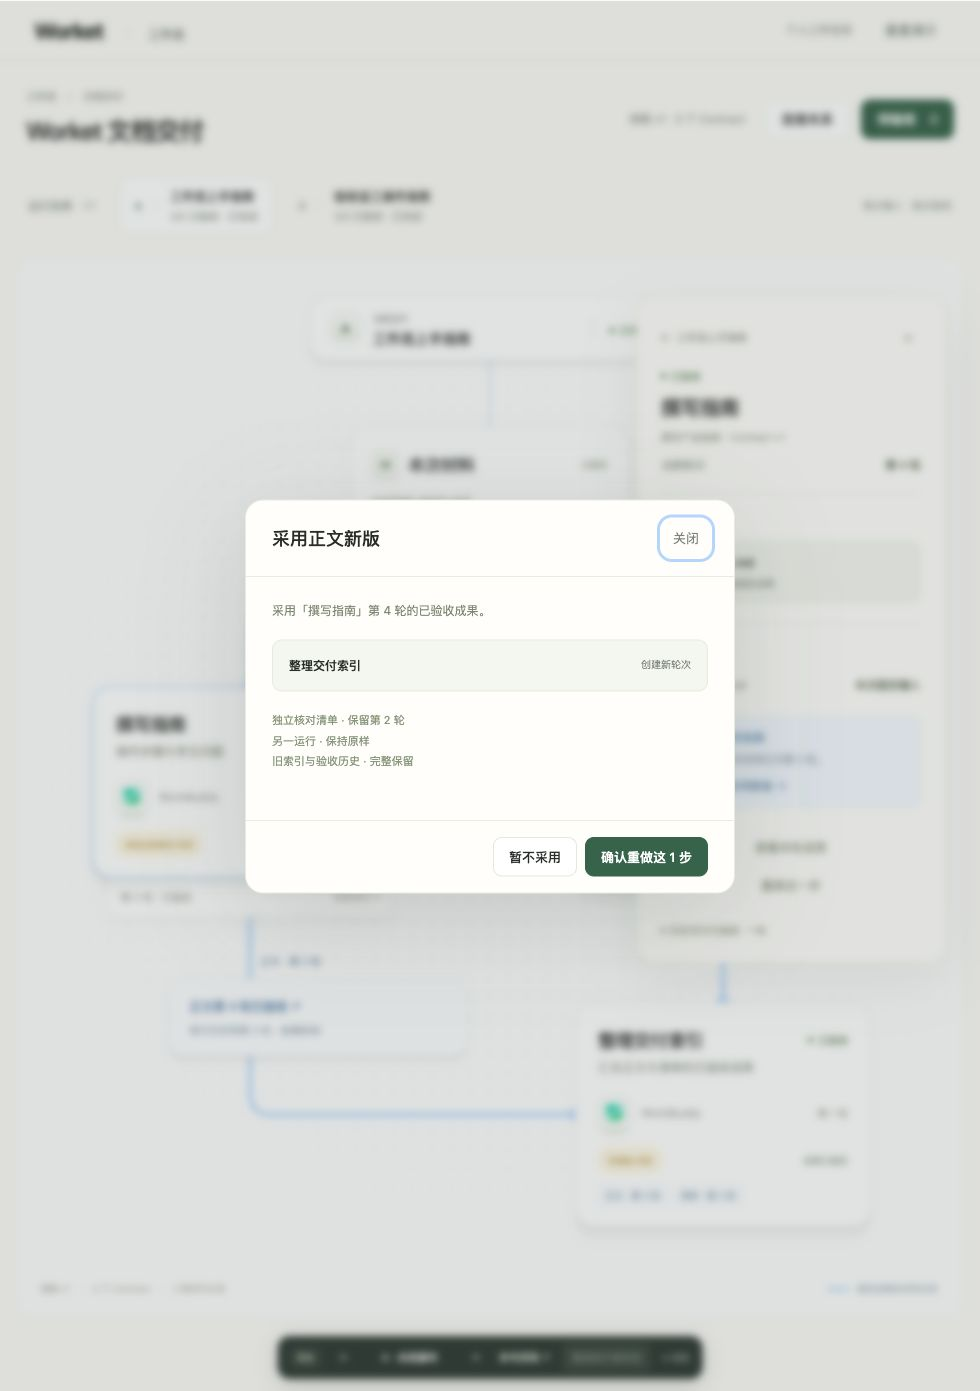
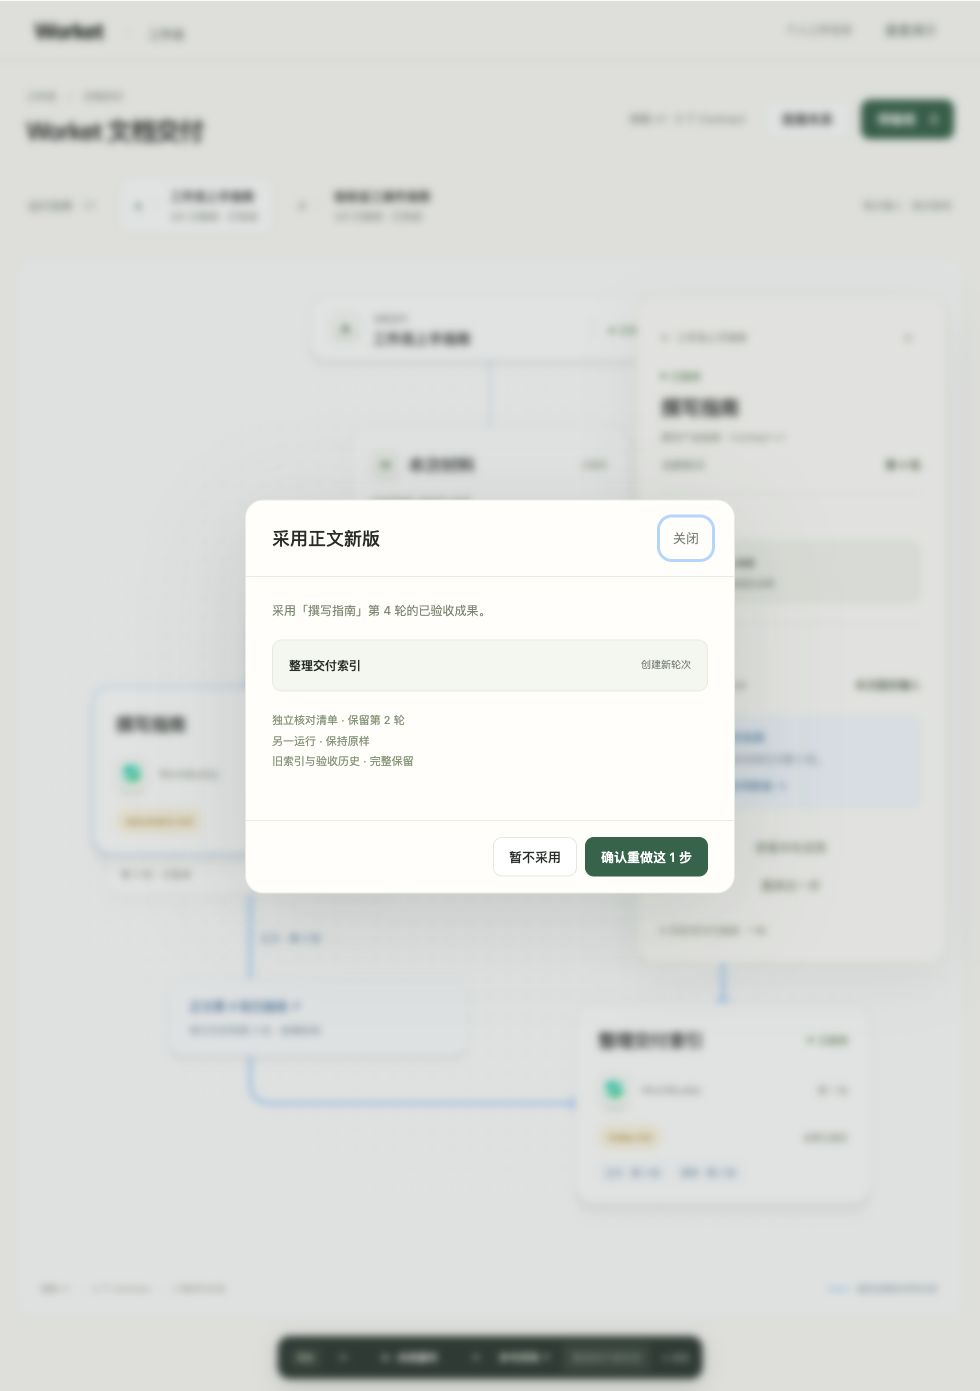
移除工作流节点标题下的解释文字

diff --git a/research/prototypes/workflow-project-flow/prototype.js b/research/prototypes/workflow-project-flow/prototype.js
@@ -20,7 +20,6 @@ const active=()=>runs[currentRun];
 const stale=r=>r.nodes.guide.phase==='ACCEPTED'&&r.nodes.delivery.adoptedGuide&&r.nodes.guide.generation>r.nodes.delivery.adoptedGuide;
 function nodeMarkup(key, n) {
  const r = active();
- const desc = {guide:'操作步骤与常见问题', checklist:'依据同一材料，独立核对', delivery:'汇合正文与清单的已验收成果'}[key];
  const adoption = key === 'delivery' ? (n.adoptedGuide
   ? `<span>正文 · 第 ${n.adoptedGuide} 轮</span><span>清单 · 第 ${n.adoptedChecklist} 轮</span>`
   : '<span>输入就绪 · 开展时固定</span>') : '';
@@ -28,7 +27,6 @@ function nodeMarkup(key, n) {
  return `<article class="flow-node ${r.selected === key ? 'selected' : ''}" id="node-${key}" data-kind="${key}">
   <div class="node-face"><button class="node-select" data-node="${key}" aria-pressed="${r.selected === key}" aria-label="${nodeNames[key]}，第 ${n.generation} 轮，${label[n.phase]}">
    <div class="node-heading"><h3>${nodeNames[key]}</h3>${status(n.phase)}</div>
-   <p class="node-description">${desc}</p>
    <div class="executor"><span class="app-tile"><img src="/workbuddy.png" alt=""></span><span>WorkBuddy</span><span class="round">第 ${n.generation} 轮</span></div>
    <div class="node-file"><span class="file-chip">${fileNames[key]}</span><span>${n.phase === 'READY' ? '待生成' : n.phase === 'ACCEPTED' ? '成果已固定' : n.phase === 'SUBMITTED' ? '等你验收' : '处理中'}</span></div>
    ${adoption ? `<div class="node-adoption">${adoption}</div>` : ''}

diff --git a/research/prototypes/workflow-project-flow/prototype.css b/research/prototypes/workflow-project-flow/prototype.css
@@ -92,7 +92,6 @@ h1 { font-size: 25px; font-weight: 550; letter-spacing: -.7px; margin-top: 8px; 
 .node-heading h3 { min-width: 0; }
 .node-heading .status { flex-shrink: 0; }
 .flow-node h3 { font-size: 18px; font-weight: 500; letter-spacing: -.5px; line-height: 1.5; }
-.node-description { color: #989e94; font-size: 12px; margin-top: 5px; }
 .executor { display: flex; align-items: center; gap: 10px; margin-top: 20px; color: #9a9f98; font-size: 11px; }
 .executor .app-tile { border: 3px solid #f0f2ed; border-radius: 9px; padding: 3px; background: #fff; width: 33px; height: 33px; box-shadow: 0 8px 5px -4px #9cae8e50; display: flex; align-items: center; }
 .executor img { display: block; width: 21px; height: 21px; border-radius: 5px; }
@@ -199,7 +198,6 @@ textarea { width: 100%; height: 82px; resize: vertical; border: 1px solid #dfe6d
 .variant-b .flow-node[data-kind="delivery"] { top: 661px; left: 50%; transform: translateX(-50%); }
 .variant-b .node-face { padding: 18px; }
 .variant-b .flow-node h3 { font-size: 16px; }
-.variant-b .node-description { font-size: 10px; }
 .variant-b .executor { margin-top: 13px; font-size: 10px; }
 .variant-b .executor .app-tile { height: 28px; width: 28px; }
 .variant-b .executor img { width: 16px; height: 16px; }

diff --git a/docs/product.md b/docs/product.md
@@ -10,7 +10,7 @@
 
 用户明确否定当前工作流 UI，要求后续重新设计；现有工作流的布局、导航和节点卡片不作为设计系统基线。下节记录的工作流业务能力不等于其界面已获用户认可。
 
-工作流方向（2026-10-22 更新）：按用户提供的 Project Flow 重建材料重做 [工作流方向稿](design/workflow-project-flow.md)，用悬浮白卡、柔和阴影、点阵和圆角连线表达真实采用关系；比较顶部运行切换加浮动详情的关系画布，与侧边运行列表加常驻详情的验收工作台。按用户反馈移除卡面 CONTRACT · V1 标签，标题与状态同一行，Contract 版本保留在详情。原型点通实例切换、集中待验收、返工与显式采用新版；仅为内存演示。原稿只供本机对照，未进入客户端或分发包；布局、宽工作台入口和窄窗口仍待评审，不回写为全局基础规范。
+工作流方向（2026-10-22 更新）：按用户提供的 Project Flow 重建材料重做 [工作流方向稿](design/workflow-project-flow.md)，用悬浮白卡、柔和阴影、点阵和圆角连线表达真实采用关系；比较顶部运行切换加浮动详情的关系画布，与侧边运行列表加常驻详情的验收工作台。按用户反馈移除卡面 CONTRACT · V1 标签，标题与状态同一行，移除标题下的解释文字，Contract 版本保留在详情。原型点通实例切换、集中待验收、返工与显式采用新版；仅为内存演示。原稿只供本机对照，未进入客户端或分发包；布局、宽工作台入口和窄窗口仍待评审，不回写为全局基础规范。
 
 ## 工作流组合与独立运行（2026-10-21）
 

diff --git a/research/prototypes/workflow-project-flow/README.md b/research/prototypes/workflow-project-flow/README.md
@@ -18,7 +18,7 @@ node research/prototypes/workflow-project-flow/serve.mjs
 
 上一版是概括风格的细卡片图。本轮依据具体重建材料重排为悬浮白卡、19px 点阵、18.8px 圆角、多层阴影、浅蓝圆角折线、圆形端口、暖色成果徽标及有层次的执行者图标。参考参数与产品映射见 [方向说明](../../../docs/design/workflow-project-flow.md)。
 
-A 取消常驻侧栏，优先呈现整张关系图；B 保留较紧凑的工作区供反复验收。卡面移除 CONTRACT · V1 标签，标题与状态同排；固定 Contract 版本保留在详情。正文历史层叠对应实际演示轮次，不用虚构人员头像暗示多人执行；连线上直接标注索引实际采用的轮次。
+A 取消常驻侧栏，优先呈现整张关系图；B 保留较紧凑的工作区供反复验收。卡面移除 CONTRACT · V1 标签，标题与状态同排，移除标题下的解释文字；固定 Contract 版本保留在详情。正文历史层叠对应实际演示轮次，不用虚构人员头像暗示多人执行；连线上直接标注索引实际采用的轮次。
 
 ## 可检查的交互
 

diff --git a/docs/design/workflow-project-flow.md b/docs/design/workflow-project-flow.md
@@ -25,7 +25,7 @@
 | --- | --- | --- |
 | 顶部运行条 | 整套流程的一次独立运行 | 切换运行不复用其状态、资料或选中节点 |
 | 本次材料卡 | 本次固定输入 | 身份和快照固定，不随源文件静默替换 |
-| Contract 卡 | 使用固定版本的 Contract 开展的当前轮工作 | 标题与状态同一行，卡面移除 CONTRACT · V1 标签；固定 Contract 版本在节点详情查看，与工作轮次分别呈现 |
+| Contract 卡 | 使用固定版本的 Contract 开展的当前轮工作 | 标题与状态同一行，卡面移除 CONTRACT · V1 标签及标题下的解释文字；固定 Contract 版本在节点详情查看，与工作轮次分别呈现 |
 | 成果徽标与历史层叠 | 本轮交付及旧轮次 | 待验收、已验收和历史分别表达；历史可查看 |
 | 四条依赖线 | 材料/上游成果到下游输入的映射 | 正文与清单并行；索引采用两者明确的已验收轮次 |
 | 连接与采用详情 | 来源端口及实际采用版本 | 新版验收不静默替换已开展的下游输入 |
